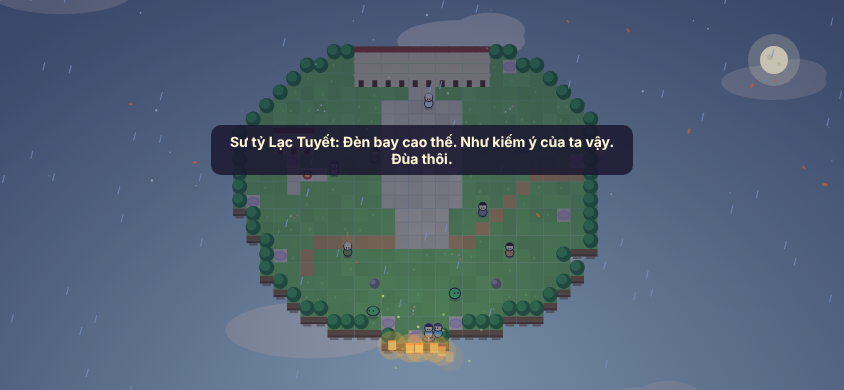
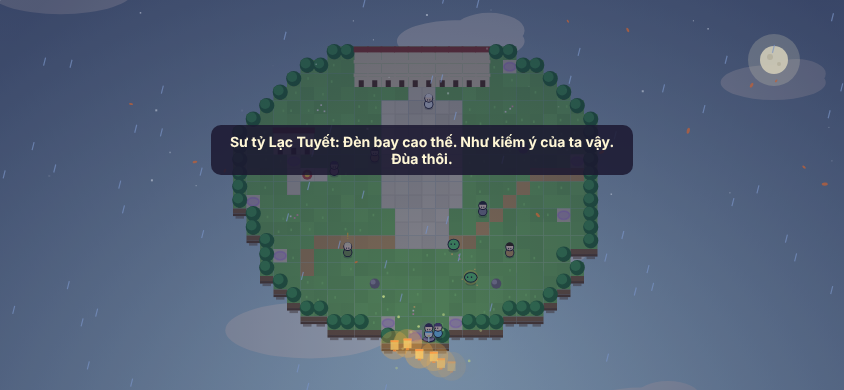
Nhật ký ghi lần đầu thả hoa đăng; cập nhật tài liệu (#96)
Claude-Session: https://claude.ai/code/session_01SFo9xute7X3VMTKkyT6ZFH

diff --git a/src/game/scenic.js b/src/game/scenic.js
@@ -3,6 +3,7 @@
 import { meditateMul } from './evolve.js';
 import { daoLu } from './affinity.js';
 import { phase } from './daynight.js';
+import { addEntry } from './journal.js';
 
 const C = game => game.data.scenic;
 
@@ -47,7 +48,9 @@ export function updateView(game, dt) {
 function lantern(game, v, comp) {
   const L = C(game).lantern, s = game.save, day = new Date().toDateString();
   if (v.t < L.after || s.lantern === day || phase(game).id !== L.phase) return;
-  s.lantern = day; game.persist();
+  s.lantern = day;
+  if (!s.lanternOnce) { s.lanternOnce = true; const J = game.data.journal; addEntry(game, comp ? J.lantern_with.replace('{name}', comp.npc.name) : J.lantern); }
+  game.persist();
   const p = game.player, now = performance.now() / 1000;
   game.lanterns = Array.from({ length: L.n }, (_, i) => ({ x: p.x + (i - (L.n - 1) / 2) * 14 + Math.random() * 6, y: p.y + 30 + Math.random() * 20, born: now + i * 0.7, life: L.life, sway: Math.random() * 6 }));
   game.sfx('chime', 0.8);

diff --git a/docs/01-HUONG-DI.md b/docs/01-HUONG-DI.md
@@ -24,9 +24,9 @@ Game là nơi người ta muốn vào để tu tiên yên bình mà tự tại. 
 4. Nhạc êm: đàn tranh, sáo trúc, tiếng gió; đêm có tiếng dế; mưa có tiếng mưa (`data/sounds.json` → music).
 5. Dược viên: khai thêm luống và nâng cấp từng luống riêng.
 
-Tự hành hiện làm được khi truyện đang chờ tu luyện (`src/game/chores.js`, thứ tự ưu tiên): việc phụ đang nhận, việc hằng ngày (đánh quái, câu cá, luyện đan), treo thưởng (tự nhận, tự trả), tự nhận việc phụ mới, về nhà nhận quà của đạo lữ và khách, hoàng hôn ra đá ngắm cảnh, vuốt ve linh thú, thu hoạch dược viên. Việc hằng ngày về bí cảnh tài nguyên, leo tháp, luận võ cũng tự đi đánh (gục trong tháp thì hôm đó thôi leo). Đầy linh khí thì tự gọi thiên kiếp. Xong việc hằng ngày thì tự nhận thưởng và mở rương. Hết việc thì đả tọa; đạo lữ ở nhà hoặc trời tối thì về động phủ ngồi song tu. Ngoài ra tự mặc món mới mạnh hơn, túi đầy thì phân giải đồ Phàm/Linh cũ để nhặt món mới, máu thấp tự uống Hồi Xuân Đan và sắp hết thì về luyện thêm. Người chơi bật tắt từng việc ở bảng Việc → tab Tự hành (`data/config.json` → pilot.opts).
+Tự hành hiện làm được khi truyện đang chờ tu luyện (`src/game/chores.js`, thứ tự ưu tiên): việc phụ đang nhận, việc hằng ngày (đánh quái, câu cá, luyện đan), treo thưởng (tự nhận, tự trả), tự nhận việc phụ mới, về nhà nhận quà của đạo lữ và khách, hoàng hôn ra đá ngắm cảnh, vuốt ve linh thú, thu hoạch dược viên. Việc hằng ngày về bí cảnh tài nguyên, leo tháp, luận võ cũng tự đi đánh (gục trong tháp thì hôm đó thôi leo). Đầy linh khí thì tự gọi thiên kiếp. Dư Tinh Thiết thì tự cường hóa đồ đang mặc tới mức chưa thể tụt cấp, có ngọc thì tự khảm và ghép. Tắt tự hành thì hiện một dòng tóm tắt đã làm được gì. Xong việc hằng ngày thì tự nhận thưởng và mở rương. Hết việc thì đả tọa; đạo lữ ở nhà hoặc trời tối thì về động phủ ngồi song tu. Ngoài ra tự mặc món mới mạnh hơn, túi đầy thì phân giải đồ Phàm/Linh cũ để nhặt món mới, máu thấp tự uống Hồi Xuân Đan và sắp hết thì về luyện thêm. Người chơi bật tắt từng việc ở bảng Việc → tab Tự hành (`data/config.json` → pilot.opts).
 
-Những thứ cho cảm giác yên bình: ngày đêm theo giờ thật, bốn mùa, mưa, đom đóm, ngắm cảnh (đạo lữ ngồi cạnh), động phủ trang trí được (Tiểu Linh bán đồ, mỗi món tăng tốc đả tọa ở nhà), khách quen ghé chơi mỗi ngày, chuông gió, thư đạo lữ khi vắng lâu, bế quan khi vắng mặt (ở nhà nhanh hơn), nhật ký tu tiên, uống trà với đạo lữ mỗi ngày (đả tọa nhanh hơn một lúc), NPC và bạn đồng hành nói nhỏ thành bong bóng, vài NPC đi dạo, câu thơ tĩnh tâm khi đả tọa lâu (`data/chatter.json`), đạo lữ đón khi về nhà sau lúc đi xa, kỳ ngộ nhỏ khi đi ngoài trời như nhặt linh thảo, gặp tiên hạc, giọt sương sớm (`data/kyngo.json`).
+Những thứ cho cảm giác yên bình: ngày đêm theo giờ thật, bốn mùa, mưa, đom đóm, ngắm cảnh (đạo lữ ngồi cạnh), động phủ trang trí được (Tiểu Linh bán đồ, mỗi món tăng tốc đả tọa ở nhà), khách quen ghé chơi mỗi ngày, chuông gió, thư đạo lữ khi vắng lâu, bế quan khi vắng mặt (ở nhà nhanh hơn), nhật ký tu tiên, uống trà với đạo lữ mỗi ngày (đả tọa nhanh hơn một lúc), NPC và bạn đồng hành nói nhỏ thành bong bóng, vài NPC đi dạo, câu thơ tĩnh tâm khi đả tọa lâu (`data/chatter.json`), đạo lữ đón khi về nhà sau lúc đi xa, kỳ ngộ nhỏ khi đi ngoài trời như nhặt linh thảo, gặp tiên hạc, giọt sương sớm (`data/kyngo.json`). Đạo lữ câu cá cùng và ngồi đả tọa cạnh bên; mỗi tối ra đá ngắm cảnh thả hoa đăng (`data/scenic.json` → lantern); đả tọa lâu thì linh thú tha đồ về (`data/pets.json` → fetch).
 
 ## Trang bị và kiếm tiền
 
